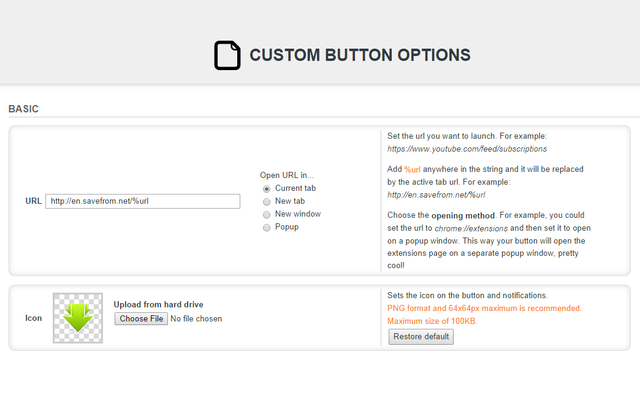
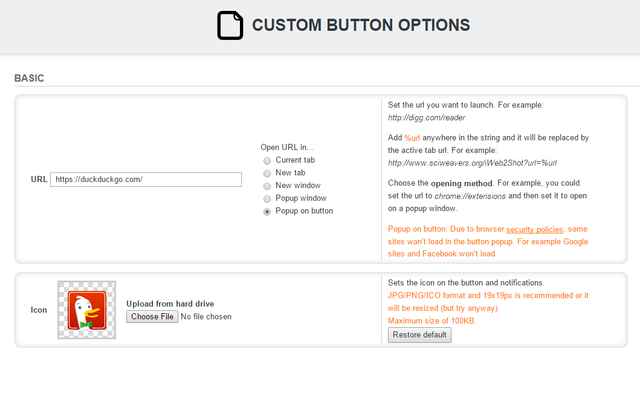
Updates readme and screenshots

diff --git a/README.md b/README.md
@@ -3,7 +3,7 @@
 <b>Custom Button</b> is a simple Chrome extension where you can customize a button, set an URL, change the icon and some other stuff.
 
 Just go to options and set the url and the window mode on activation.
-You can also set a regular expresion to match a certain domain and activate notifications when the match fails.
+You can also set a regular expression to match a certain domain and activate notifications when the match fails.
 
 <h2>Options</h2>
 <h3>URL</h3>
@@ -24,7 +24,7 @@ For example, you could set the url to *chrome://extensions* and then set it to o
 
 <h3>ICON</h3>
 Sets the icon on the button and notifications.<br>
-*PNG format and 64x64px maximum is recommended.*<br>
+JPG/PNG/ICO format and 19x19px is recommended or it will be resized (but try other dimensions anyway, it may look fine).<br>
 *Maximum size of 100KB.*
 
 <h3>DOMAIN</h3>
